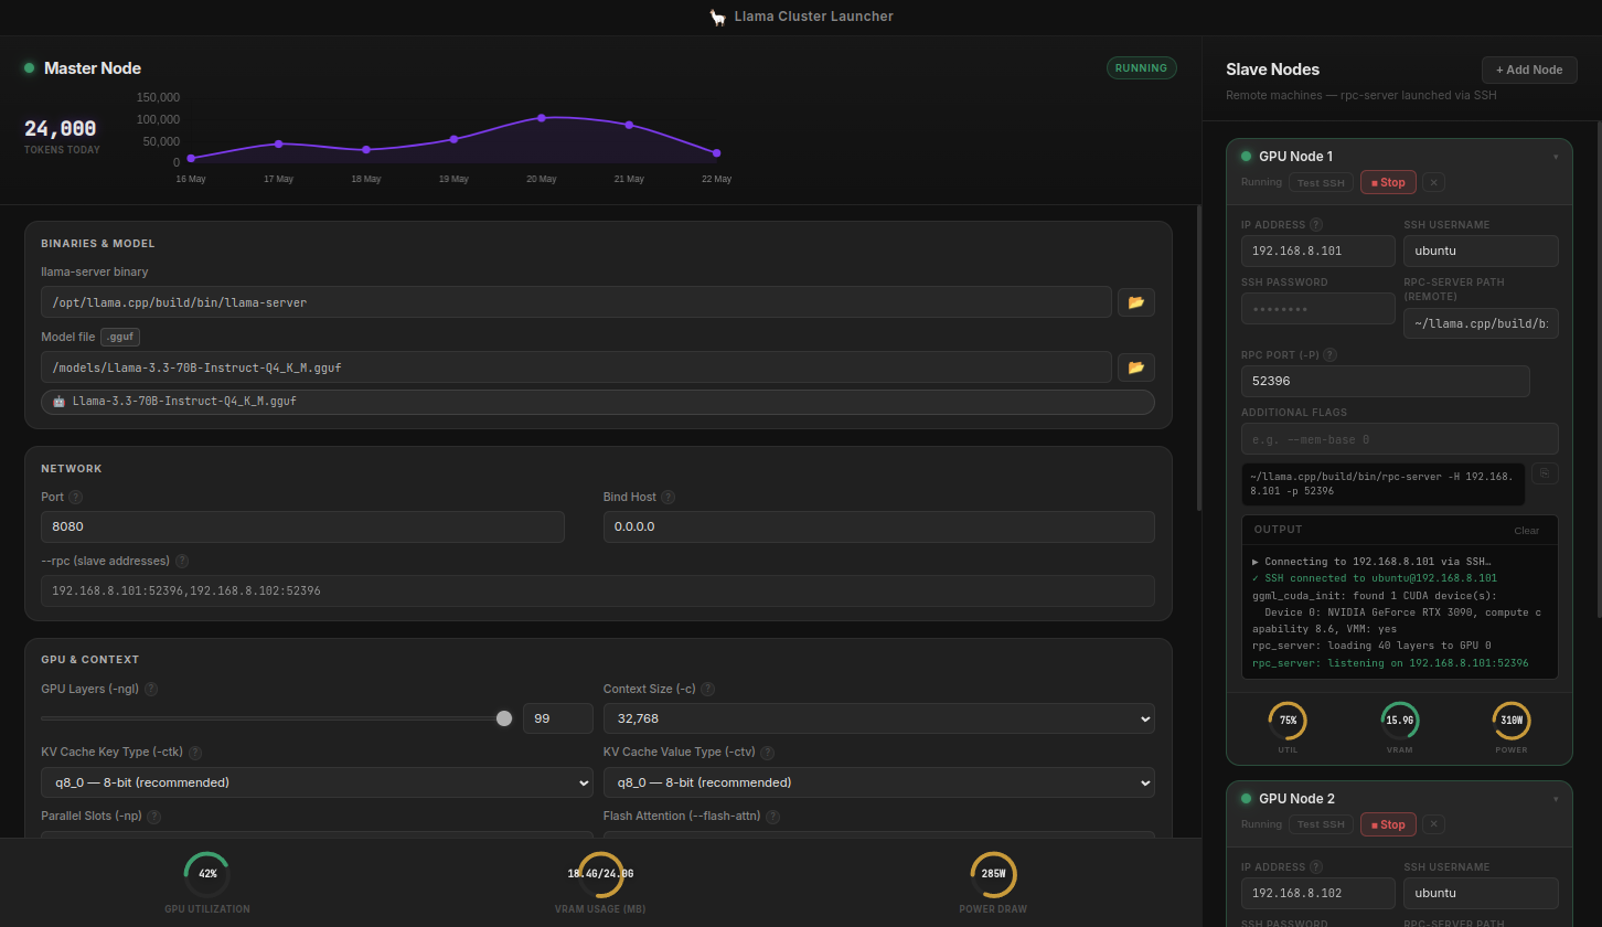
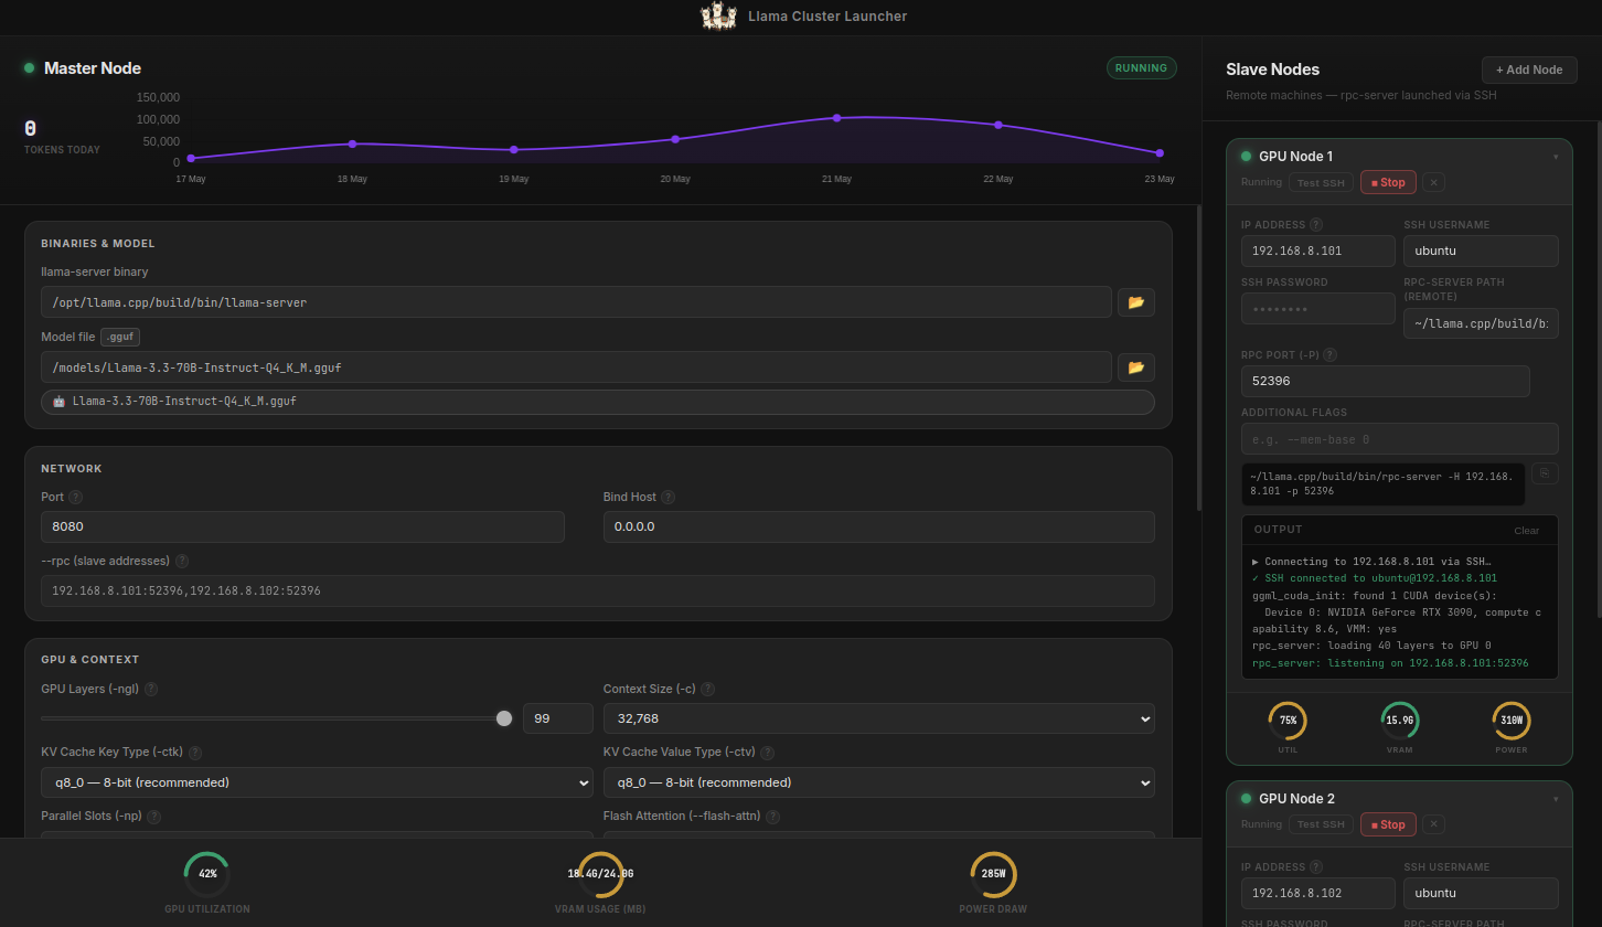
Update README and refresh UI screenshot

diff --git a/README.md b/README.md
@@ -1,4 +1,4 @@
-# 🦙 Llama Cluster Launcher
+# Llama Cluster Launcher
 
 <img src="src/logos/llama_cluster_logo_v001.png" width="250" alt="Llama Cluster Launcher Logo" align="right">
 
@@ -23,6 +23,7 @@ A professional-grade Electron GUI for managing distributed `llama.cpp` inference
 - **Real-time GPU Metrics**: Live dials for GPU Utilization, VRAM usage, and Power draw on all nodes via `nvidia-smi`.
 - **Token Tracking**: Live daily token count and 7-day usage graph to monitor your cluster's workload over time.
 - **Flash Attention Control**: Fine-grained `--flash-attn` (auto/on/off) for optimized inference.
+- **Interactive Flags Explorer**: Click the `?` icon next to Extra Flags to pop open an elegant dictionary of all available `llama-server` arguments.
 - **Live Terminal Output**: Real-time stdout/stderr streaming with intelligent log coloring.
 - **Port Safety Checks**: Verifies local and remote ports aren't already in use before launching.
 - **Encrypted Persistence**: Remembers your config across sessions using AES-encrypted local storage.
